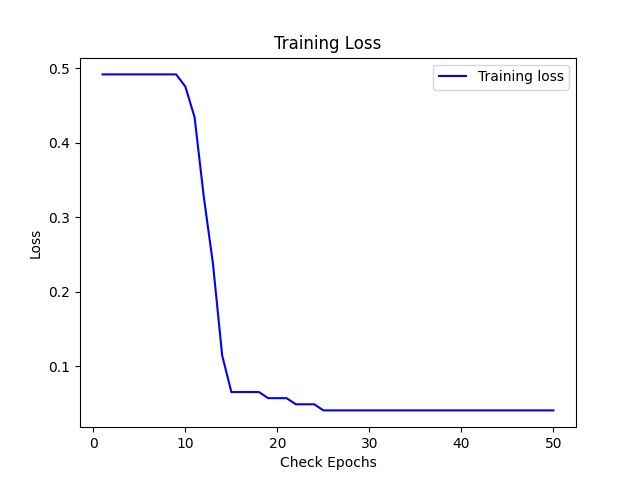
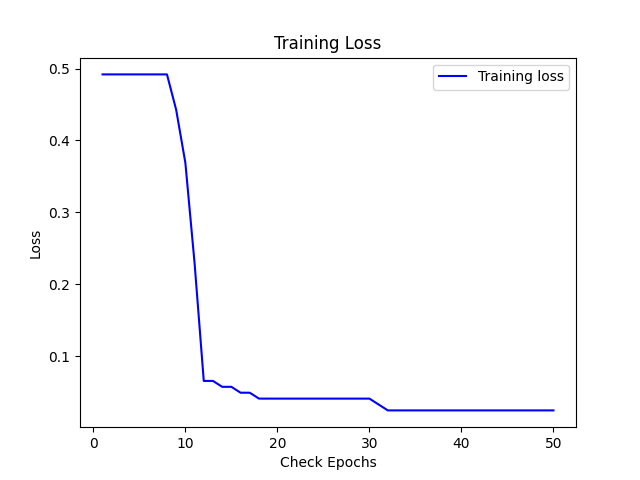
implemented momentum

diff --git a/model/layer.py b/model/layer.py
@@ -30,8 +30,10 @@ class layer:
         print(f"{layer_dim}; {activation}")
         self._WM = np.random.normal(loc=0.0, scale=0.5, size=(input_dim, layer_dim) )
         self._biases = np.random.normal(loc=0.0, scale=0.5, size=layer_dim )
-        self._DW = 0
-        self._Dbiases = 0
+        self._negGrad = 0
+        self._biases_negGrad = 0
+        self._DWold = 0
+        self._biases_DWold = 0
         self.inputs = None
         self.output_prime = None
         if activation != "sigmoidal":
@@ -52,11 +54,11 @@ class layer:
         #deltas is the vector (d_t1, d_t2, d_t3..), for each unit t1, t2, t3 ..
         deltas = error_signal * self.output_prime 
         
-        #here we compute the Dw for the current layer, but we don't apply it yet
-        #   we add to the total Dw the current contribution, ie the Dw calculated from this pattern
+        #here we compute the negative gradient for the current layer, but we don't apply it yet
+        #   we add to the total neg gradient the current contribution, ie the neg grad calculated from this pattern
         #   the outer product produes the matrix array([ d_t*input for each unit t in layer])
-        self._DW += np.outer(self.inputs, deltas) 
-        self._Dbiases += deltas #for each unit t, Dbias_t = d_t * input, where input is 1
+        self._negGrad += np.outer(self.inputs, deltas) 
+        self._biases_negGrad += deltas #for each unit t, Dbias_t = d_t * input, where input is 1
 
         #here we compute the error signal for the previous layer
         #    deltas, seen as a row vector, is broadcasted to a matrix with all equal rows.
@@ -67,16 +69,22 @@ class layer:
         return np.sum(self._WM*deltas, axis=1)
 
 
-    def update_weights(self, eta, lam):
-        #here we apply the Dw computed during backward.
+    def update_weights(self, eta, lam, alpha):
+        #here we apply the negGradient computed during backward.
         #In a online alg, we continously call this.backward and this.update_weights,
-        #   so for each pattern, dw is computed and applied immediately.
+        #   so for each pattern, negGrad is computed and applied immediately.
         #In a (mini)batch alg, we call this.backward for each pattern, and
         #   this.update_weights just once per batch.
-        self._WM += eta * self._DW - lam*self._WM
-        self._biases += eta * self._Dbiases
-        self._DW = 0
-        self._Dbiases = 0
+        DW = eta*self._negGrad + alpha*self._DWold
+        self._WM += DW - lam*self._WM
+        self._DWold = DW
+        
+        Dbias = eta * self._biases_negGrad + alpha*self._biases_DWold
+        self._biases += Dbias
+        self._biases_DWold = Dbias
+
+        self._negGrad = 0
+        self._biases_negGrad = 0
     
     def get_weights(self):
       return (self._WM, self._biases)

diff --git a/model/train.py b/model/train.py
@@ -64,6 +64,7 @@ if __name__ == '__main__':
     epsilon    = model_conf["epsilon"]
     eta        = model_conf["eta"]
     lam        = model_conf["lambda"]
+    alpha      = model_conf["alpha"]
     max_step   = model_conf["max_step"]
     check_step = model_conf["check_step"]
     layers     = model_conf["hidden_units"]
@@ -91,7 +92,7 @@ if __name__ == '__main__':
                 error = pattern[1] - out
                 nn.backwards(error)
             #we are updating with eta/TS_size in order to compute LMS, not simply LS
-            nn.update_weights(eta/len(whole_TR), lam)
+            nn.update_weights(eta/len(whole_TR), lam, alpha)
         if(i % check_step == 0):
             err = MSE_over_network (whole_TR, nn)
             print (f"{i}: {err}")

diff --git a/model/MLP.py b/model/MLP.py
@@ -37,9 +37,9 @@ class MLP:
         for layer in reversed(self.layer_set):
             error_signal = layer.backwards(error_signal)
     
-    def update_weights(self, eta, lam):
+    def update_weights(self, eta, lam, alpha):
         for layer in self.layer_set:
-            layer.update_weights(eta, lam)
+            layer.update_weights(eta, lam, alpha)
 
 
     def save_model (self, filename):
